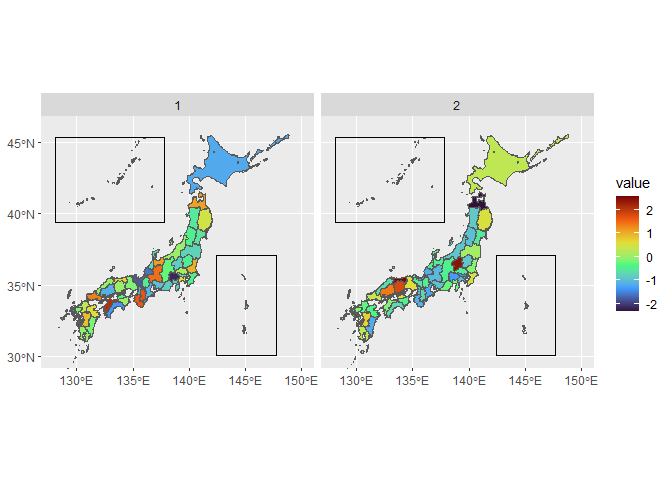
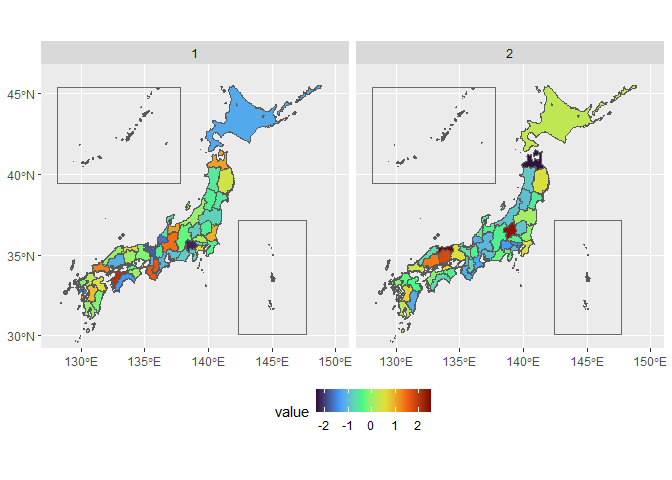
Update layout_islands()

diff --git a/README.md b/README.md
@@ -88,7 +88,8 @@ plot <- ggplot(data,
   scale_fill_viridis_c(option = "turbo") +
   facet_wrap(~ group)
 
-layout_islands(plot)
+layout_islands(plot) +
+  theme(legend.position = "bottom")
 ```
 
 <img src="man/figures/README-unnamed-chunk-5-1.png" width="100%" />
